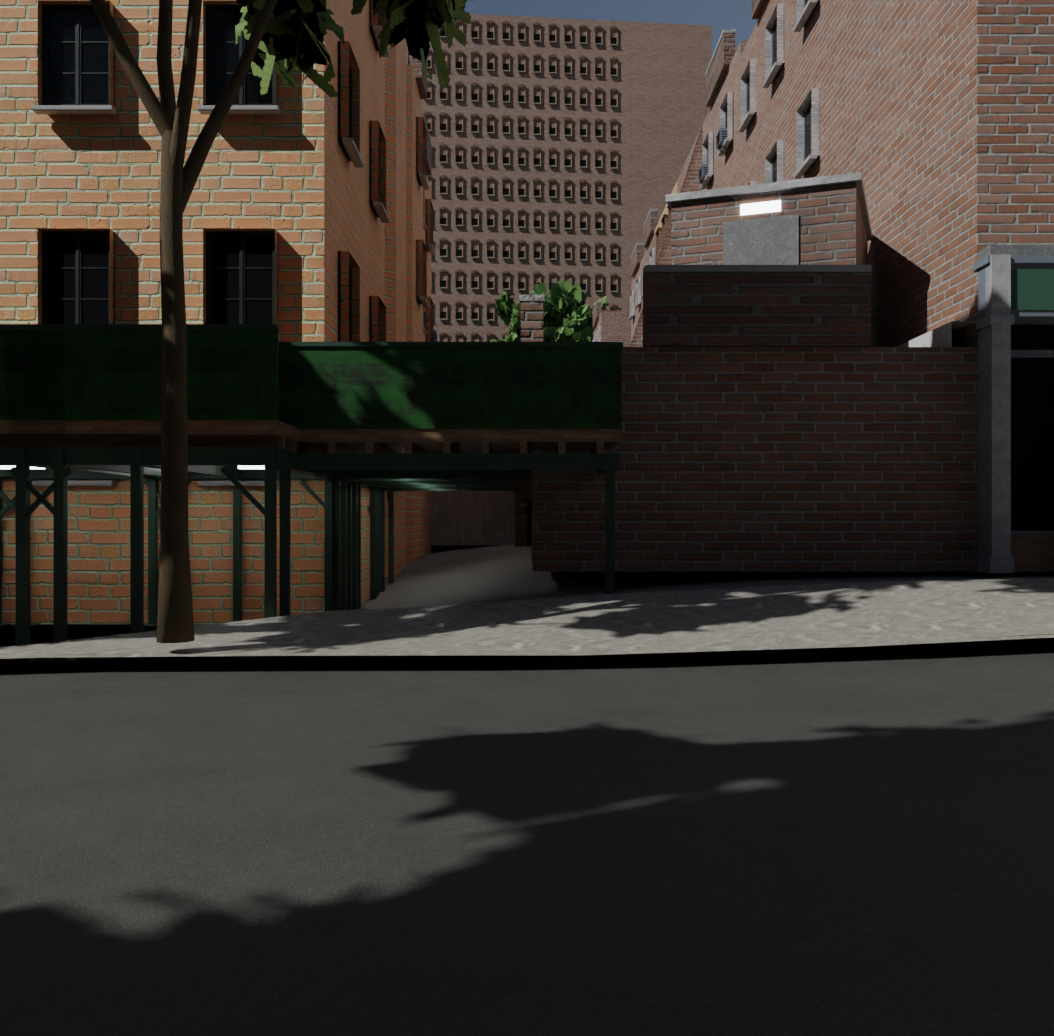
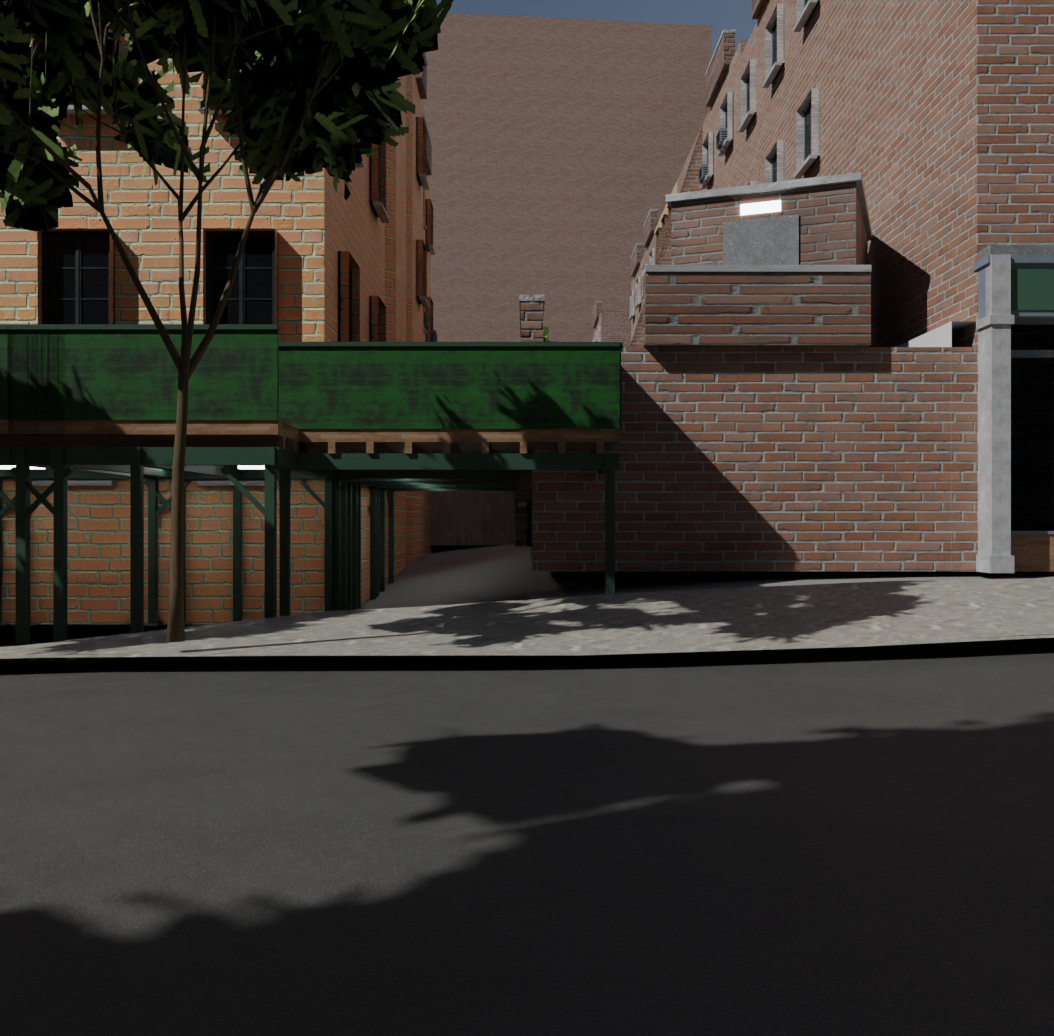
verify: Park Slope and Bed-Stuy assessments against the v13 renders
Park Slope is the sheet that found J68 and J70 and it shows the difference.
The church that filled the upper middle as a sixteen-storey apartment slab is
now a mass with almost no glazing; the 204 trees stand at the height the census
measured them, mean scale 0.933, none outside the band; frame mean 0.2244 and
standard deviation 0.1588 against the photograph's 0.4799 and 0.2928.  The
pairing is still not of one place -- the camera looks up Seventh Avenue and the
photograph along Garfield Place -- and the caption says so before a reader has
to work it out.

Bed-Stuy went the other way and the reason is worth having.  Its frame is
darker than the last render of it (mean 0.1267 against 0.1466) because the
smaller trees cost fewer triangles, so 202 of the block's trees now fit the
budget where fewer did before, and their shadow covers more of the carriageway.
That is more of the real street, not less.  What the frame cannot show at all is
sunlight: the camera looks along 351.4 deg, so the facade filling it faces very
nearly due south, while the Sun bears 95.3 deg at 43.5 deg elevation -- grazing
incidence.  A south-facing Bed-Stuy row house is lit in the afternoon, and the
instant is assumed because the photograph carries a year and nothing finer.
That is a consequence of a stated choice, not of the renderer, and the
assessment says which of the three causes of its darkness is which.

Both pass tools/assessment_check.py.  Between them the checker rejected eight
[…]

Changed region(s): [[0.0, 0.0, 1.0, 0.6486], [0.0, 0.5251, 0.0304, 0.556]]

diff --git a/docs/verification/comparison/drive_brooklyn_park_slope_7th_ave/assessment.md b/docs/verification/comparison/drive_brooklyn_park_slope_7th_ave/assessment.md
@@ -2,53 +2,56 @@
 
 `drive_brooklyn_park_slope_7th_ave` · sheet: [`sheet.png`](sheet.png) · render record: [`render.json`](render.json)
 
-**Reference** - File:Park Slope - Brooklyn (55268725540).jpg by ajay_suresh, CC BY 4.0 (https://creativecommons.org/licenses/by/4.0), taken 2026-04-23 13:09, 1920x1080. [Commons page](https://commons.wikimedia.org/wiki/File:Park_Slope_-_Brooklyn_(55268725540).jpg)
+**Reference** — File:195 Garfield Place.jpg by Beyond My Ken, CC BY-SA 4.0 (https://creativecommons.org/licenses/by-sa/4.0), 2013, 1920x1887. [Commons page](https://commons.wikimedia.org/wiki/File:195_Garfield_Place.jpg)
 
-**Camera** - camera 40.67233, -73.97706 (NYC_TM -2288, -3072) z 29.9 m NAVD88, a 1.6 m eye above a terrain surface measured at 28.309 m NAVD88 from 113 heightmap samples within 12.0 m | azimuth 32.4 deg pitch +0.0 deg | 35 mm on 36 mm (54.4 deg horizontal) | 1280x720. It looks at 32.4 deg because that is Seventh Avenue's own measured bearing, snapped to the street when the viewpoint was corrected today; the axis is level because the item names no subject to tilt towards, and the lens is the default 35 mm equivalent because nothing asked for anything else.
+**Camera** — 40.67247, -73.97746 (NYC_TM -2321, -3057) at z 29.1 m NAVD88 | azimuth 32.4°, pitch +0.0° | 35 mm on 36 mm (54.4° horizontal) | 1054x1036. The camera stands on **this photograph's own EXIF GPS**, 36.6 m from the item's recorded viewpoint, and was **not moved**: the viewpoint is in open air on the ground, the view azimuth is clear for 38.7 m, the nearest built thing in the frame is `prop_tree_honeylocust_small_2` 8.4 m away, and no simulated agent stands within 60 m of it.
 
-**Sun** - azimuth 187.7 deg, elevation 61.8 deg at 2026-04-23T13:09:00-04:00, from the photograph's own EXIF DateTimeOriginal to the minute, not an assumption.
+**Sun** — azimuth 95.3°, elevation 43.5° at 2013-06-21T09:30−04:00; 860.0 W/m² direct normal, sky at strength 0.0328, Filmic, +0.00 stops. The photograph carries a **year only**, so 21 June 09:30 is assumed. That date is a **Friday** and the crowd was drawn for **a weekday**.
 
-**In frame** - 6 of 6 building tiles (492,134 triangles, none missing, none LOD-substituted); 2 landmarks, the Soldiers' and Sailors' Memorial Arch and the Central Library, neither visible in this frame; 1,741 pavement polygons within 720 m (701 curb, 406 crosswalk, 322 roadbed, 184 sidewalk, 109 median, 15 parking lot, 4 plaza), none dropped; 273 props of 762 rows in range, among them 167 trees, 39 street lamps and 14 hydrants, plus 28 curb ramps built as pavement rather than props; 3,751 kit pieces, including 2,123 windows, 302 storefronts, 99 fire escapes and 52 lit storefront interiors; 89 vehicles and 281 people; 4,272,206 triangles; ground mesh 211² at 2.0 m near and 40.0 m far, no holes. Two budgets bite: the 1,311,426-triangle prop budget caps the props at 273 of 762 and dropped 23 impostor cards, and the agent budget dropped 517 more people and 117 more vehicles. Frame mean 0.3622, standard deviation 0.1921, passed as usable.
+**In the scene**, within 756.6 m of the camera and not all of it in frame — 6/6 building tiles (492,134 tris), 2 landmark models of which **0 can fall inside the 54.4° frame**, 23,064 pavement polygons (9,385 white marking, 5,341 sidewalk, 4,038 roadbed, 3,131 curb, 541 crosswalk, 291 yellow marking, 274 median, 44 parking lot, 19 plaza), 343 props of the 1,010 in range, 4,393 kit pieces, 88 vehicles and 364 people; 4,500,137 triangles. Ground mesh 89,872 triangles, 0 holes. 19 city surfaces are dressed from the shared photographic catalogue.
 
-**Verdict - the corrected viewpoint (J48) turns this sheet from a blank wall into a legible Seventh Avenue with awnings, trees, kerbs, ramps and a crowd, and the two things now worth an engineer's morning are the windowless brick above the shopfronts and a carriageway that renders as untextured grey patchwork with one pavement slab floating over it.**
+## Verdict
+
+**This sheet is the one that found J68 and J70, and what it shows now is a different picture of the same disagreement.** The two halves are still not of the same thing: the camera stands on the photograph's own GPS at the corner of Seventh Avenue and Garfield Place and looks **up Seventh Avenue**, while the photograph looks along **Garfield Place** at a row of Romanesque Revival houses. The item names no subject and the photograph's own view direction was never derived from the image (confidence **medium**), so the sheet's own caption forbids reading the two as one view.
+
+**What is in the render's frame is a green sidewalk shed, a brick service wall and a roof bulkhead.** The shed is not an error: it is a DOB-permitted sidewalk shed on a real building on this block, from the permit set active on **2026-09-05**, and the photograph is from **2013**. It is a real object of the wrong decade standing exactly where the record says it stands.
+
+**Two things in this frame were wrong on the last render of it and are not now.** The large mass in the upper centre is Old First Reformed Church, and until J68 it was drawn as a sixteen-storey apartment slab carrying a grid of window bays, a wooden gravity tank and two rooftop bulkheads — the counts are in that entry rather than here — while it is now a mass with almost no glazing, which is a plain statement rather than a fabricated apartment house. And the street trees now stand at the height the tree census measured them — **204 of them at a mean scale of 0.933**, none outside the scale band (J70). The frame's mean rose to **0.2244** and its standard deviation to **0.1588** on those two changes; the dappled shadow across the carriageway and the sunlit brick above the shed are what they bought.
 
 ## What matches
 
-* The frame is a street. The viewpoint was corrected today from a point J48 records as 98 m from the crossing its own note names, and the azimuth snapped from 30.0 to the avenue's measured 32.4 deg. The clearance rule did not move the camera: the nearest solid thing in frame is `prop_lamp_cobra_davit_6` at 12.6 m and the axis is clear for 150 m against a 20 m floor.
-* This is a shopping street and it looks like one. A continuous run of storefronts, awnings and lit soffits carries the left-hand block face, with fascia signs legible at "OPEN" and "RESTAURANT" - generic wording, as B4 says of 49,880 of them, but the right object in the right place at the right height.
-* Street trees line both kerbs and close over the pavement, which is what Seventh Avenue does; 167 are placed within the 250 m prop radius.
-* The kerb reads correctly along both sides, and the surveyed ramps are now geometry rather than a uniform lift: on the near left kerb the sidewalk slopes down and the kerb face pinches out to nothing, which is what a cut ramp looks like. 28 are built into this pavement (J21, closed).
-* The city is populated. 281 people stand and walk on the pavements in varied clothing at LOD1 48 / LOD2 233, and of the 89 vehicles a rank of sedans, an SUV and a white box truck stands at the far kerb, where the reference also has one.
-* J44 is genuinely gone: I looked at the middle-distance vehicles at pixel level and there is no untextured sphere under any of them.
-* The roofline behind the trees carries stepped parapets, chimney stacks and cornices, air-conditioners and fire escapes hang at plausible floor levels, and the 61.8 deg midday sun throws short dappled tree shadows across the roadway as the reference's own shadows do.
+* **The street fabric is right for this corner.** 2,580 windows, 298 storefront and 52 storefront-interior pieces, 295 entry doors, 280 window accessories, 153 parapets, 148 bulkheads, **147 fire escapes**, 129 cornices, 89 fence pieces, 82 string courses, 44 quoins and 12 pilasters stand in the scene out of 4,393 kit pieces. Four-storey party-wall brick with fire escapes, punched openings and a shopfront band is what Seventh Avenue is.
+* **The sidewalk shed is real and it is the right shed.** 56 scaffold pieces are in the scene, drawn from DOB NOW sidewalk-shed permits joined by BIN — not decoration, and not a generic prop. It is painted the hunter green the city requires.
+* **The light is directional and the shadows are hard.** A tree casts dappled shade across the footway and out onto the carriageway, the shed's fascia takes grazing morning light, and the brick above it is sunlit. The sky is open above the roofline.
+* **The camera was not moved.** The photograph's own GPS was usable, the clearance probe found 38.7 m of open air along the view azimuth, and the render stands where the picture was taken. That is the best case this pipeline has.
+* **The road is a road**: 4,038 roadbed, 3,131 curb and 5,341 sidewalk polygons carrying asphalt and concrete from their own material names, with the kerb reading by its reveal and a crosswalk at the corner.
+* **The crowd and the fleet are the simulation's own** — 364 people and 88 vehicles at 09:30 on a weekday, 1 at LOD0, 23 at LOD1 and 340 at LOD2. The fleet is 52 sedans, 16 SUVs, 11 yellow taxis, 3 boro taxis, 2 black cars, 2 vans, 1 MTA bus and **1 ambulance**.
+* Nothing was dropped for being missing: 6 of 6 building tiles, 0 LOD substitutions, 0 pavement polygons dropped, 0 holes, and **no prop kind unplaced**.
 
 ## What does not match
 
-* The photograph is a different corner. Its street sign reads "8 AV", its own EXIF GPS is 734 m from this camera - past the 250 m at which the sheet will take it as the same view, so it was rejected as mis-tagged - and the file's Commons categories name Eighth Avenue and 9th Street. The halves cannot be compared on composition, only on width, storey height and material, as the caption warns.
-* No facade near enough to read carries a single window opening. The left block face above its awnings, the near right building, and the wall carrying two full fire escapes with balconies and ladders are blank brick, with nothing behind the escapes. 2,123 window pieces are placed within the kit's 120 m radius, so they exist in this scene and not on these elevations.
-* The carriageway is unfinished. The near half breaks into large light and dark grey regions whose jagged edges follow triangle boundaries rather than any street feature, and one pale pavement slab ends in mid-road with a free edge and a soft dark band beneath it, so it reads as a plate laid on the road rather than a kerbed island.
-* The road carries one white bar and nothing else. The reference has a yellow centre line, a ladder crosswalk, stop bars, patched asphalt and a manhole cover; here 406 crosswalk and 322 roadbed polygons produce flat grey with no texture and no markings near the camera.
-* The near roadway is empty: no moving traffic and nothing parked at either near kerb, where the reference has cars nose to tail on both sides and two more waiting in the intersection.
-* Nothing signals or names the street. No mast-arm signal, no pedestrian countdown, no street-name sign, no newsstand, no fire-alarm box, all of which are in the reference and three of which dominate its right third. No bicycles either: 20 cyclist, e-bike and pedicab bodies were dropped for having no rider.
-* The foliage is the wrong season - full dark summer canopies against a reference of the same minute that is half-leafed pale yellow-green with a flowering pink tree behind the corner.
-* One pedestrian on the right pavement carries a plain red box that intersects his torso.
-* The sky is a clean gradient where the reference has light cloud, and the render's key is far lower: a frame mean of 0.3622 against a photograph bright end to end.
-* The item is called a brownstone block and there is not a stoop in the frame. That is the avenue's doing rather than the render's, but a reader comparing name to picture will not know it.
+* **The two halves face different ways.** The photograph's subject is a row of individually articulated houses on Garfield Place — bay windows, conical turret roofs, deep bracketed cornices, four different brick and brownstone colours in adjacent houses. The render looks up Seventh Avenue at a shed and a service wall. The item names no subject and the direction was never derived from the image, so this is a property of the pairing, not of the render.
+* **The photograph's block face has no individual houses in the model.** Its five or six distinct houses are carried by two large footprints in the source, one of them classed as an elevator apartment building; there is no row of separate shells to give separate colours to. That is a footprint-data fact, not a rendering one.
+* **The frame is less than half as bright as the photograph and carries about a third of its colour**: mean **0.2244** against **0.4799** (**0.468×**), standard deviation **0.1588** against **0.2928** (**0.542×**), 95th percentile **0.5221** against **0.9644**, 5th percentile **0.0140** against **0.0484**. Part of that is a difference of weather and exposure — the photograph is a bright overcast with a blown white sky, the render a clear sky at an assumed instant, and a camera stops down where this renderer never does. **The chroma gap is not**: **0.0534** against **0.1478**, a ratio of **0.361**, with `concrete`, `roof_membrane` and `wood_clapboard` at the albedo cap with the wrong source material behind them and `brownstone` drawn from a travertine scan (J66).
+* **The church has almost no windows where a Romanesque church has two tiers of tall round-arched ones.** Capping its elevation at the storey count its own facade class publishes stopped it being a sixteen-storey apartment house; it did not give it the glazing a church actually carries. That is stated as a rule in J68 and it is the honest half of a fix, not the whole of one.
+* **Both landmark models in the scene are behind or beside the camera** — the Soldiers' and Sailors' Memorial Arch and the Brooklyn Public Library — so 2 placed is not 2 in frame.
+* **No vehicle is in frame** although 88 are placed and all 88 are at LOD2. The photograph has cars parked along the kerb, which is what that street looks like at any hour.
+* **667 props in range were not placed** — triangle budget 1,291,418 — along with part of the kit (cap 1,316,574) and **27 opaque impostor cards**.
+* **204 trees stand within 286.6 m and 48 are species-substituted.** They are drawn at the height their own row records; the species they are drawn *as* is the nearest by size and taxon.
+* The Sun is on an assumed instant; the photograph carries a year and nothing finer.
 
 ## Cause of each gap
 
 | gap | cause | class |
 |---|---|---|
-| photograph is a different corner 734 m away | the chooser scored a Park Slope streetscape with no usable heading; the GPS was rejected, the image kept | reference |
-| no window openings on any near facade | the facade class places sills, accessories and fire escapes but no window on these elevations; facades are inferred (A2) | geometry |
-| fire escapes on blank brick | same class: the escape comes from the kit without the opening it serves | geometry |
-| patchwork light and dark carriageway | polygon-boundary shading across the pavement and terrain surfaces; J17 records terrain still rising through the pavement over 0.0-0.15 % of it, the right shape for this but unmeasured on this tile | verification |
-| pavement slab floating over the roadbed | a raised pavement polygon ends in a free edge instead of closing to a kerb face | geometry |
-| no texture or markings on the road | pavement carries a kind and a base colour, not a texture; crosswalks are derived (C3) and the layer is from an earlier run (C7) | material |
-| no signal, countdown, street sign, newsstand, fire-alarm box or bicycle | none of those kinds is placed in this scene, sign legends are MUTCD defaults where they exist (D6), and 20 cyclist bodies were dropped for having no rider | data |
-| empty near roadway | 241 vehicles dropped outside 320 m and 117 to the triangle budget; no survivor is parked near the camera | budget |
-| props drawn 273 of 762 | the 1,311,426-triangle prop budget, which also dropped 23 impostor cards | budget |
-| summer canopies on an April frame | trees are procedural with no seasonal state (D6); 43 species substituted | data |
-| red box intersecting a pedestrian | carried items are bevelled boxes (E5), and this one is not attached to its body | geometry |
-| clear sky, low key | a Nishita sky with no cloud layer or haze | material |
-| "brownstone block" names a retail avenue | the item's name and its viewpoint note describe two different things | reporting |
+| the two halves face different ways | the item names no subject and the photograph's direction was never derived from the image (confidence medium); the camera looks up Seventh Avenue and the photograph along Garfield Place | reference |
+| the photograph's houses have no individual shells | the block face is two large footprints in the source, one classed as an elevator apartment building; no source records an individual house's colour | data |
+| mean 0.468×, 95th percentile 0.522 against 0.964 | a bright overcast with a blown white sky against a clear sky at an assumed instant, plus a camera's automatic exposure against a renderer that never stops down | reference + stated choice |
+| chroma 0.361× | `concrete`, `roof_membrane` and `wood_clapboard` at the albedo cap with the wrong source material, and `brownstone` drawn from a travertine scan (J66) | material |
+| a church with almost no glazing | its elevation is capped at the storey count its facade class publishes, which stops the sixteen-storey grid and does not supply the two tiers of arched windows a church carries; stated as a rule (J68) | geometry — open |
+| a sidewalk shed of the wrong decade | the shed source is DOB permits active on 2026-09-05 and the photograph is from 2013; the city is built to today's permits | reference |
+| 2 landmarks placed, 0 in frame | both stand behind or beside the camera; the count is a scene count and the caption says which is which (J61) | — (not a gap) |
+| no vehicle in frame | placement is city-wide and the frame is not; none of the 88 falls inside this 54.4° cone | verification |
+| 667 props and part of the kit dropped | triangle budgets 1,291,418 and 1,316,574, declared on the sheet | performance |
+| 48 of 204 trees species-substituted | no modelled species matched exactly; the nearest by size and taxon was used | data |
+| Sun on an assumed instant | the photograph carries a year and nothing finer | reference |

diff --git a/docs/verification/comparison/drive_brooklyn_bed_stuy_stuyvesant_ave/assessment.md b/docs/verification/comparison/drive_brooklyn_bed_stuy_stuyvesant_ave/assessment.md
@@ -4,35 +4,40 @@
 
 **Reference** — File:Decatur Stuyvesant Heights HD 2.JPG by Smallbones, CC BY-SA 3.0 (https://creativecommons.org/licenses/by-sa/3.0), 2013, 1920x1440. [Commons page](https://commons.wikimedia.org/wiki/File:Decatur_Stuyvesant_Heights_HD_2.JPG)
 
-**Camera** — 40.68150, -73.93231 (NYC_TM 1496, -2054) at z 19.8 m NAVD88 | azimuth 351.4°, pitch +0.0° | 35 mm on 36 mm (54.4° horizontal) | 1208x906. The camera stands on **this photograph's own EXIF GPS**, 46.3 m from the item's recorded viewpoint — the position the picture was taken from — and was **not moved**: the viewpoint is in open air on the ground, the nearest built thing in the frame is `prop_tree_ginkgo_large_2` 15.6 m away, and no simulated agent stands within 60 m of it.
+**Camera** — 40.68150, -73.93231 (NYC_TM 1496, -2054) at z 19.8 m NAVD88 | azimuth 351.4°, pitch +0.0° | 35 mm on 36 mm (54.4° horizontal) | 1208x906. The camera stands on **this photograph's own EXIF GPS**, 46.3 m from the item's recorded viewpoint, and was **not moved**: the viewpoint is in open air on the ground, the view azimuth is clear for 23.2 m, the nearest built thing in the frame is `prop_tree_sophora_large_3` 14.9 m away, and no simulated agent stands within 60 m of it.
 
-**Sun** — azimuth 95.3°, elevation 43.5° at 2013-06-21T09:30−04:00; 860.2 W/m² direct normal, sky at strength 0.0328, Filmic, +0.00 stops. The photograph carries a **year only**, so 21 June 09:30 is assumed. That date is a **Friday** and the crowd was drawn for **a weekday**.
+**Sun** — azimuth 95.3°, elevation 43.5° at 2013-06-21T09:30−04:00. The photograph carries a **year only**, so 21 June 09:30 is assumed. That date is a **Friday** and the crowd was drawn for **a weekday**.
 
-**In the scene**, within 766.3 m of the camera and not all of it in frame — 6/6 building tiles (670,572 tris), 0 landmark models, 19,150 pavement polygons (7,648 white marking, 192 yellow, 4,326 sidewalk, 3,340 roadbed, 2,895 curb, 451 crosswalk, 212 parking lot, 63 median, 23 plaza), 261 props of the 958 in range, 4,312 kit pieces, 89 vehicles and 301 people; 4,500,194 triangles. Ground mesh 89,888 triangles, 0 holes.
+**In the scene**, within 766.3 m of the camera and not all of it in frame — 6/6 building tiles (670,572 tris), 0 landmark models, 19,150 pavement polygons (7,648 white marking, 4,326 sidewalk, 3,340 roadbed, 2,895 curb, 451 crosswalk, 212 parking lot, 192 yellow marking, 63 median, 23 plaza), 318 props of the 958 in range, 4,274 kit pieces, 89 vehicles and 301 people; 4,500,248 triangles. Ground mesh 89,888 triangles, 0 holes. 18 city surfaces are dressed from the shared photographic catalogue.
 
 ## Verdict
 
-**This is the closest pairing in the set so far and the most useful one, because for once the two halves are of the same kind of thing from nearly the same place.** The camera stands where the photographer stood, to within the GPS fix, and both halves show a row of Bed-Stuy houses at eye level from across the street. The typology is right in detail — stoops, arched entries, areaway railings, window air-conditioners. **What the render cannot do is the thing the photograph is actually about: every house on that block is a different colour, and every house in the render is the same one.**
+**This is still the closest pairing in the set, and it is now also the clearest demonstration that the assumed instant is the weakest input on these sheets.** The camera stands where the photographer stood, to within the GPS fix, and both halves show a row of Bed-Stuy houses at eye level from across the street. The typology is right in detail — stoops, arched entries, areaway railings, window air-conditioners, garden-level windows.
+
+**Nothing in the frame is in sunlight, and the record's own two numbers say why.** The camera looks along azimuth **351.4°**, so the facade filling the picture faces back at it — very nearly due south — while the Sun bears **95.3°** at **43.5°** elevation. A wall that far off the Sun's bearing takes it at grazing incidence and receives a small fraction of the **860 W/m²** direct normal the record publishes. A south-facing Bed-Stuy row house is edge-on to the Sun at 09:30 in late June and is lit in the afternoon. The instant is *assumed*, because the photograph carries a year and nothing finer, so this is a consequence of a stated choice and not of the renderer.
+
+**The frame is darker than the last render of it, and that is more of the street rather than less.** The trees now stand at the height the census measured them (J70), which costs fewer triangles, so more of this block's trees fit the budget: **202** of them, at a mean scale of **0.937**. What the frame held before is in that entry rather than here. Their shadow covers more of the carriageway. What the sheet shows is a denser and more accurate canopy over a facade that was never going to be lit at this hour.
 
 ## What matches
 
-* **The row typology is exact.** Four stoops with iron railings rise to arched doorways with panelled doors; rusticated brownstone at the base with visible coursing; segmental-arched window openings with projecting lintels; garden-level windows under the stoops; areaway fences at the pavement line. 275 entry doors, 2,794 windows, 337 window accessories, 180 cornices, 170 fire escapes, 129 bulkheads, 87 fence pieces and 57 quoins stand in the frame out of 4,312.
+* **The row typology is exact.** Four stoops with iron railings rise to arched doorways with panelled doors; rusticated brownstone at the base with visible coursing; segmental-arched window openings with projecting lintels; garden-level windows under the stoops; areaway fences at the pavement line. 2,734 windows, 339 window accessories, 284 entry doors, **181 cornices**, **170 fire escapes**, 131 bulkheads, 105 storefront pieces, 91 fence pieces, 61 parapets, 58 quoins and 47 string courses stand in the scene out of 4,274.
 * **The window air-conditioners are there**, in several openings, and they are in the photograph too. That is the kind of detail that decides whether a street reads as New York.
-* **The light is directional and the shadow is a real shadow.** A tree casts a hard dappled shadow across the pavement and out onto the carriageway; the facade above it takes grazing morning light from the east. Before the sun-to-sky ratio was corrected this frame had no shadow in it at all (docs/DEVIATIONS.md J67).
-* **The camera was not moved.** The photograph's own GPS was usable, the clearance probe found 23.2 m of open air along the view azimuth, and the render stands where the picture was taken. That is the best case this pipeline has and it happened here.
+* **The shadow is a real shadow.** A tree casts hard dappled shade across the pavement and out onto the carriageway. Before the sun-to-sky ratio was corrected this frame had no shadow in it at all (docs/DEVIATIONS.md J67).
+* **The camera was not moved.** The photograph's own GPS was usable and the render stands where the picture was taken. That is the best case this pipeline has and it happened here.
 * **The road is a road**: 3,340 roadbed, 2,895 curb and 4,326 sidewalk polygons carrying asphalt and concrete from their own material names, with the kerb reading by its reveal.
+* **The crowd and the fleet are the simulation's own** — 301 people and 89 vehicles at 09:30 on a weekday. The fleet is 41 sedans, 20 SUVs, 9 yellow taxis, 6 black cars, 4 boro taxis, 4 box trucks, 3 MTA buses and 2 vans.
 * Nothing was dropped for being missing: 6 of 6 building tiles, 0 LOD substitutions, 0 pavement polygons dropped, 0 holes, and **no prop kind unplaced**.
 
 ## What does not match
 
 * **Every house is the same colour, and the photograph's subject is that they are not.** The reference shows, left to right, deep terracotta, cream, plum-red brick and rust brick in four adjacent houses; the render's whole row is one brownstone. The facade classifier assigns one material family per block face and **no source in this build records the colour of an individual house**. This is the single largest gap on the sheet and it is a data gap, not a rendering one.
-* **The chroma gap is the same fact measured**: **0.0241** against the photograph's **0.1381**, a ratio of **0.175** — the render carries under a fifth of the colour variation of the block it stands for. Part is the missing per-house colour; part is that `brownstone` is drawn with a travertine scan and `concrete`, `roof_membrane` and `wood_clapboard` sit at the albedo cap with the wrong source material behind them (docs/DEVIATIONS.md J66). 18 city surfaces are dressed in this frame.
-* **The cornice is missing where the photograph's is the most conspicuous thing on the roofline.** 180 cornice pieces are in range; the roofline in frame is plain. The photograph's houses carry deep carved cornices with dentils and brackets.
+* **The chroma gap is the same fact measured**: **0.0245** against the photograph's **0.1381**, a ratio of **0.177** — the render carries under a fifth of the colour variation of the block it stands for. Part is the missing per-house colour; part is that `brownstone` is drawn with a travertine scan and `concrete`, `roof_membrane` and `wood_clapboard` sit at the albedo cap with the wrong source material behind them (J66).
+* **The frame is much darker and much flatter than the photograph**: mean **0.1267** against **0.3992** (**0.317×**), standard deviation **0.1** against **0.2993** (**0.334×**), 95th percentile **0.3092** against **0.9972**, 5th percentile **0.0249** against **0.0583**. Three things are in that and they should not be confused: the facade is at grazing incidence at the assumed instant; the photograph was taken under a bright overcast whose blown white sky is what puts its 95th percentile near 1; and a camera stops down where this renderer never does.
+* **The cornice is missing where the photograph's is the most conspicuous thing on the roofline.** 181 cornice pieces are in the scene; the roofline in frame is plain. The photograph's houses carry deep carved cornices with dentils and brackets.
 * **The facades are flat where the photograph's are not.** Two-storey angled bay windows step out of the wall in the reference; the render's wall is planar.
-* **The frame is much darker and much flatter**: mean **0.1466** against **0.3992** (**0.367×**), sd **0.1117** against **0.2993** (**0.373×**), 95th percentile **0.3277** against **0.9972**. **A large part of that is a difference of weather, not of rendering.** The photograph was taken under a bright overcast — its blown-out white sky is what puts its 95th percentile at 0.9972 — and the render assumes a clear sky at an assumed instant. The two frames are lit by different days.
 * **No vehicle is in frame** although 89 are placed and all 89 are at LOD2. The photograph has four cars parked along the kerb, which is what that street looks like at any hour.
-* **697 props in range were not placed** — triangle budget 1,245,811 — along with part of the kit (cap 1,364,135) and 17 opaque impostor cards.
-* **168 trees stand within 296.3 m and 67 are species-substituted.**
+* **Only 318 of the 958 props in range were placed** — triangle budget 1,245,811 — along with part of the kit (cap 1,370,215) and 23 opaque impostor cards.
+* **202 trees stand within 296.3 m and 75 are species-substituted**, and **one tree fell outside the scale band** and is drawn at its asset's own size rather than its measured height; the record counts it (J70).
 * The Sun is on an assumed instant; the photograph carries a year and nothing finer.
 
 ## Cause of each gap
@@ -40,11 +45,13 @@
 | gap | cause | class |
 |---|---|---|
 | every house the same colour | the facade classifier assigns one material family per block face; no source in this build records an individual house's colour | **data — the largest gap on this sheet** |
-| chroma 0.175× | the missing per-house colour, plus `brownstone` drawn from a travertine scan and three surfaces at the albedo cap with the wrong source material (J66) | material |
-| no cornice on the roofline | 180 cornice pieces are in range but none is placed on the visible roofline; the kit's cornice is a generic profile and the classifier has no source for a carved one | geometry |
+| chroma 0.177× | the missing per-house colour, plus `brownstone` drawn from a travertine scan and three surfaces at the albedo cap with the wrong source material (J66) | material |
+| nothing in the frame is sunlit | the camera looks along 351.4° so the facade faces very nearly due south, and the Sun bears 95.3° at 43.5°: the wall is at grazing incidence to it. The instant is assumed because the photograph carries only a year | reference + stated choice |
+| mean 0.317×, 95th percentile 0.309 against 0.997 | the grazing incidence above, a photograph taken under bright overcast with a blown white sky, and a camera's automatic exposure against a renderer that never stops down | reference + stated choice |
+| no cornice on the roofline | 181 cornice pieces are in the scene but none is placed on the visible roofline; the kit's cornice is a generic profile and the classifier has no source for a carved one | geometry |
 | flat facades where the reference has bays | the shell is extruded from a footprint; a two-storey angled bay is not in the footprint | geometry |
-| mean 0.367×, 95th percentile 0.328 against 0.997 | the photograph was taken under a bright overcast and the render assumes a clear sky at an assumed instant — different days, not different renderers | reference |
 | no vehicle in frame | placement is city-wide and the frame is not; none of the 89 falls inside this 54.4° cone | verification |
-| 697 props and part of the kit dropped | triangle budgets 1,245,811 and 1,364,135, declared on the sheet | performance |
-| 67 of 168 trees species-substituted | no modelled species matched exactly; the nearest by size and taxon was used | data |
+| 318 of 958 props placed, and part of the kit | triangle budgets 1,245,811 and 1,370,215, declared on the sheet | performance |
+| 75 of 202 trees species-substituted | no modelled species matched exactly; the nearest by size and taxon was used | data |
+| one tree outside the scale band | its measured height is further from the nearest exported size than the declared band allows, so it keeps the asset's own size and is counted (J70) | data |
 | Sun on an assumed instant | the photograph carries a year and nothing finer | reference |
